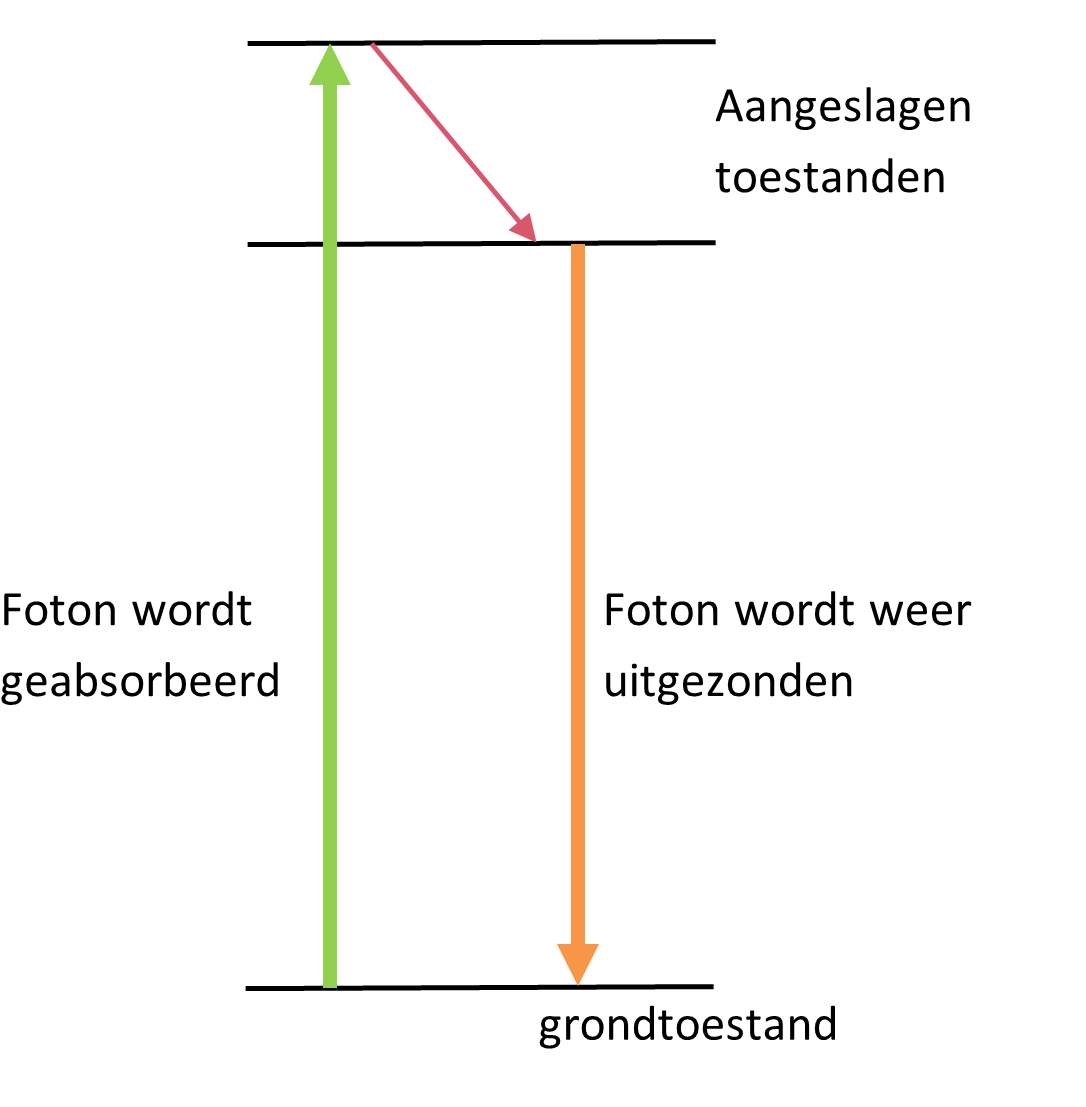
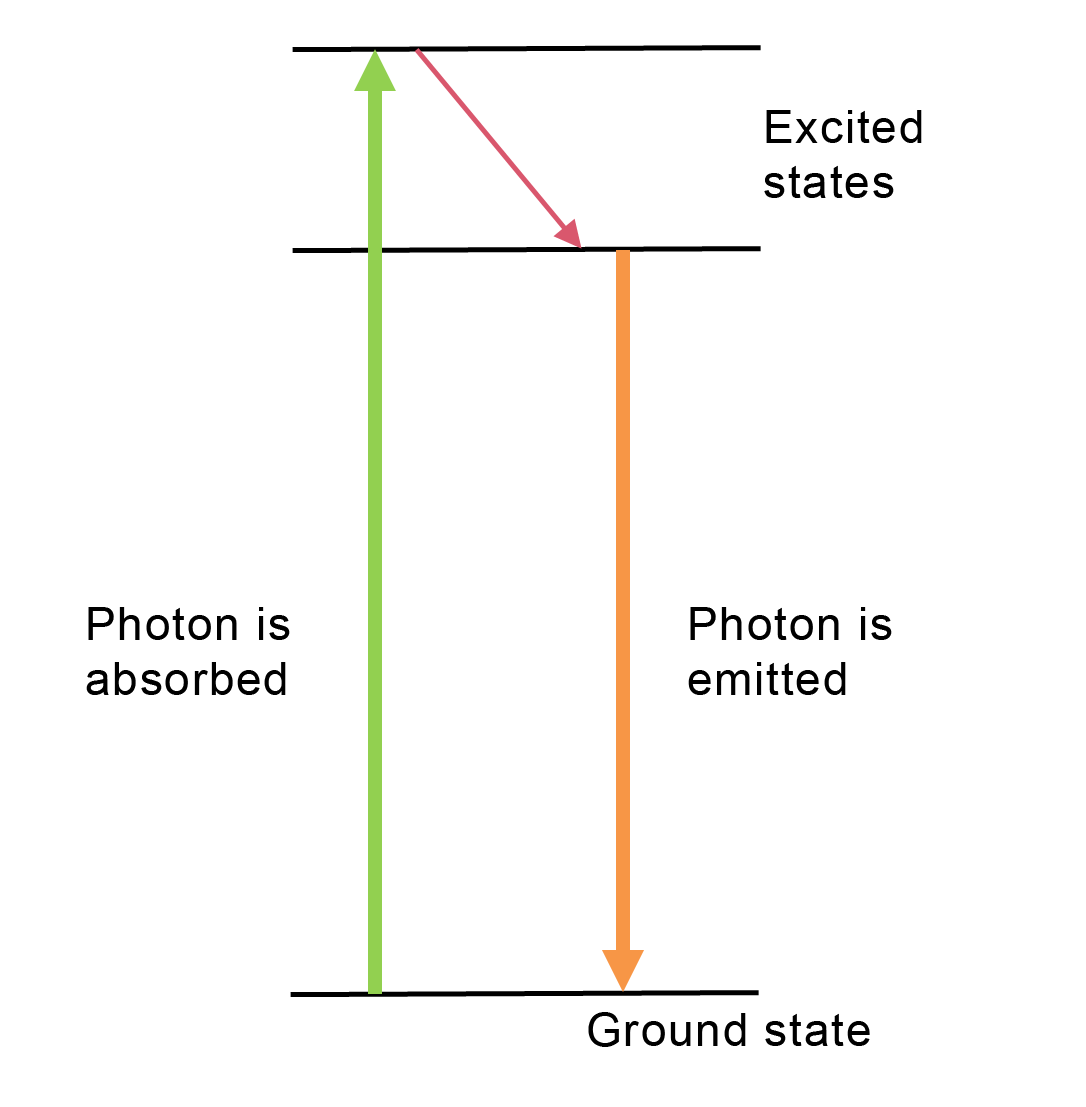
demo87 check

Changed region(s): [[0.0, 0.0307, 0.8812, 0.9521]]

diff --git a/book/demos/demo87/demo87.md b/book/demos/demo87/demo87.md
@@ -1,4 +1,4 @@
-```{figure} ../../figures/ready.png
+```{figure} ../../figures/checked.png
 ---
 width: 35%
 align: right
@@ -52,7 +52,7 @@ A darkened room is not required but works better, and a digital camera is also h
 
 ## Procedure
 
-Your initial question is: Can you see light when looking at it from the side? Shine the red laser pointer on the wall. You'll only see a spot until you spray water mist into the light beam. You then see not the light itself but light entering your eye due to the scattering of water droplets. 
+Your initial question is: *Can you see light when looking at it from the side?* Shine the red laser pointer on the wall. You'll only see a spot until you spray water mist into the light beam. You then see not the light itself but light entering your eye due to the scattering of water droplets. 
 
 ```{warning}
 Directly shining laser light into your eye is harmful.
@@ -70,6 +70,7 @@ Discuss with the (qualitative) energy level diagram of chlorophyll (Figure 2): a
 ---
 width: 40%
 align: center
+name: demo87_fig2
 ---
 Energy level diagram for fluorescence in olive oil
 ```
@@ -80,7 +81,7 @@ Help students describe and draw the process themselves as much as possible, wher
 
 ## Physics Background
 
-The energy of photons follows from $E_f = hf$. For the frequencies, it holds true: $f_{red} < f_{orange} < f_{green}$. During fluorescence, a (here green) photon is absorbed by the system, and part of the energy is released (how is unimportant) as the system returns to the ground state. See figure 2. The emitted photon, in the case of chlorophyll, orange, has at most the energy of the original photon. An orange photon cannot be replaced by a green photon later on, as the additional energy required is lacking. The red beam of light remained red for another reason. Apparently, a red photon has too little energy to be absorbed; it can at most be scattered without a change in energy.
+The energy of photons follows from $E_f = hf$. For the frequencies, it holds true: $f_{red} < f_{orange} < f_{green}$. During fluorescence, a (here green) photon is absorbed by the system, and part of the energy is released (how is unimportant) as the system returns to the ground state, see {numref}`Figure {number}<demo87_fig2>`. The emitted photon, in the case of chlorophyll, orange, has at most the energy of the original photon. An orange photon cannot be replaced by a green photon later on, as the additional energy required is lacking. The red beam of light remained red for another reason. Apparently, a red photon has too little energy to be absorbed; it can at most be scattered without a change in energy.
 
 Control Question: Some photons were created by scattering, others by fluorescence. What is the most important difference in energy of the photons between these processes?
 
